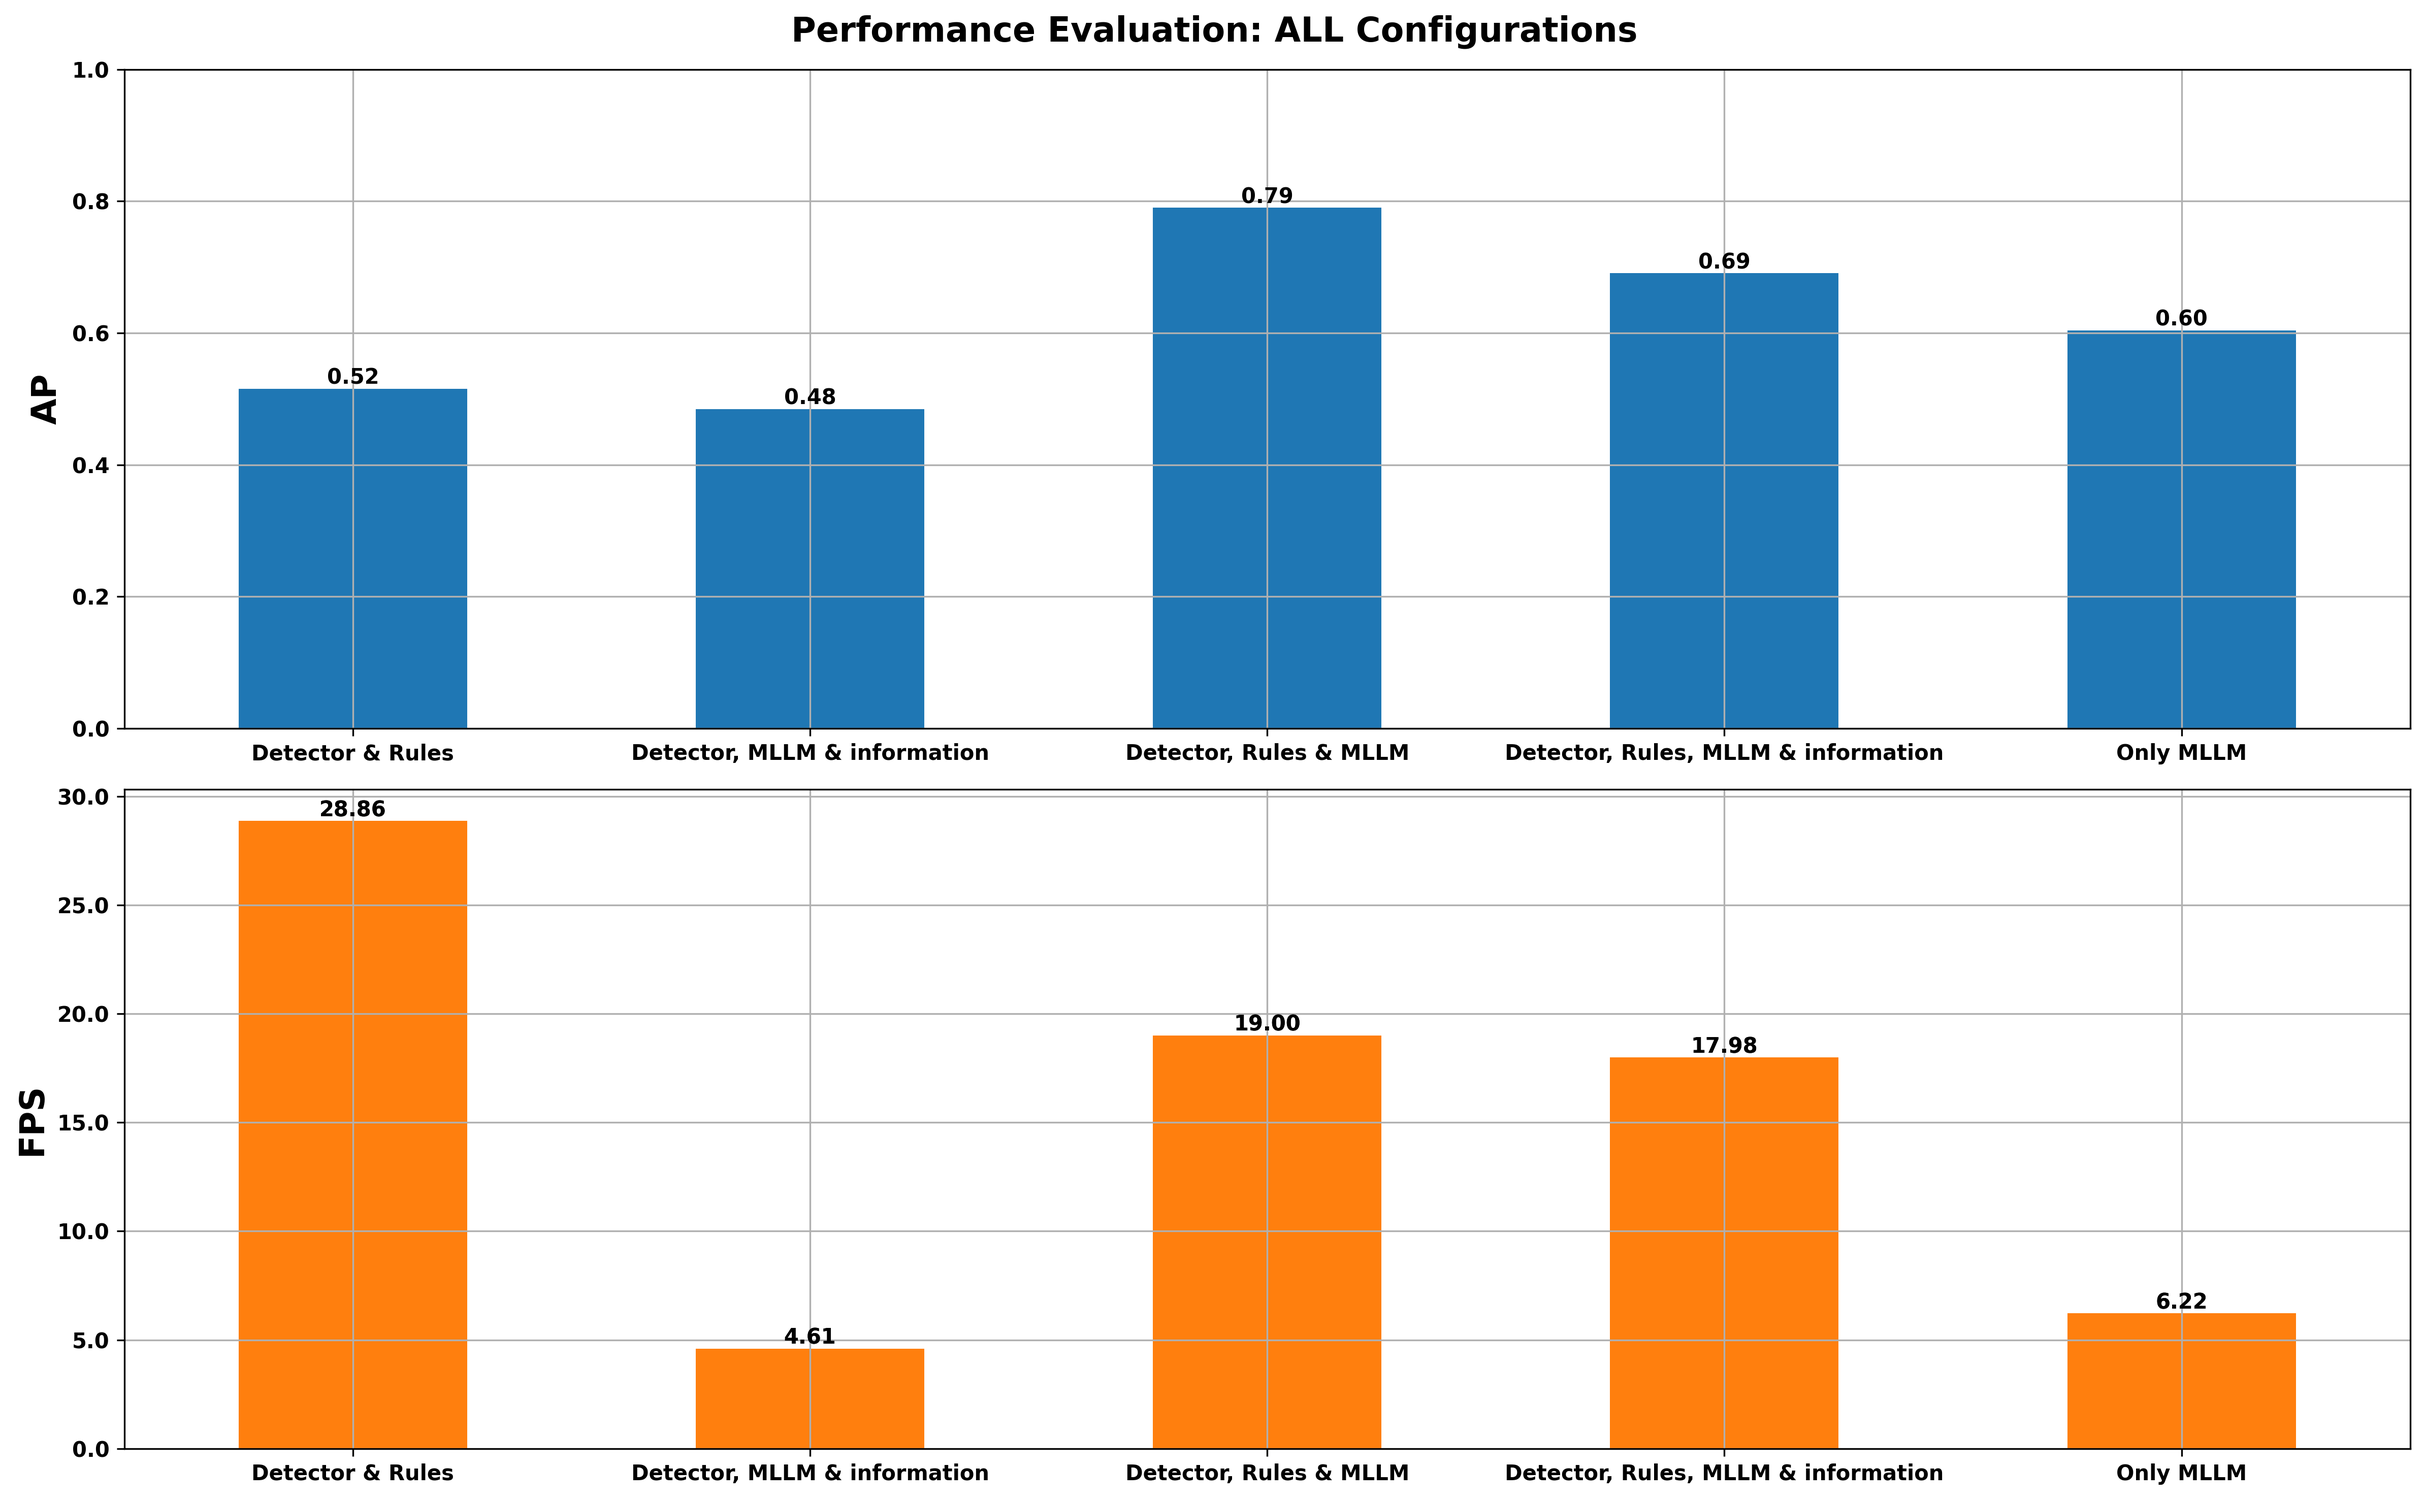
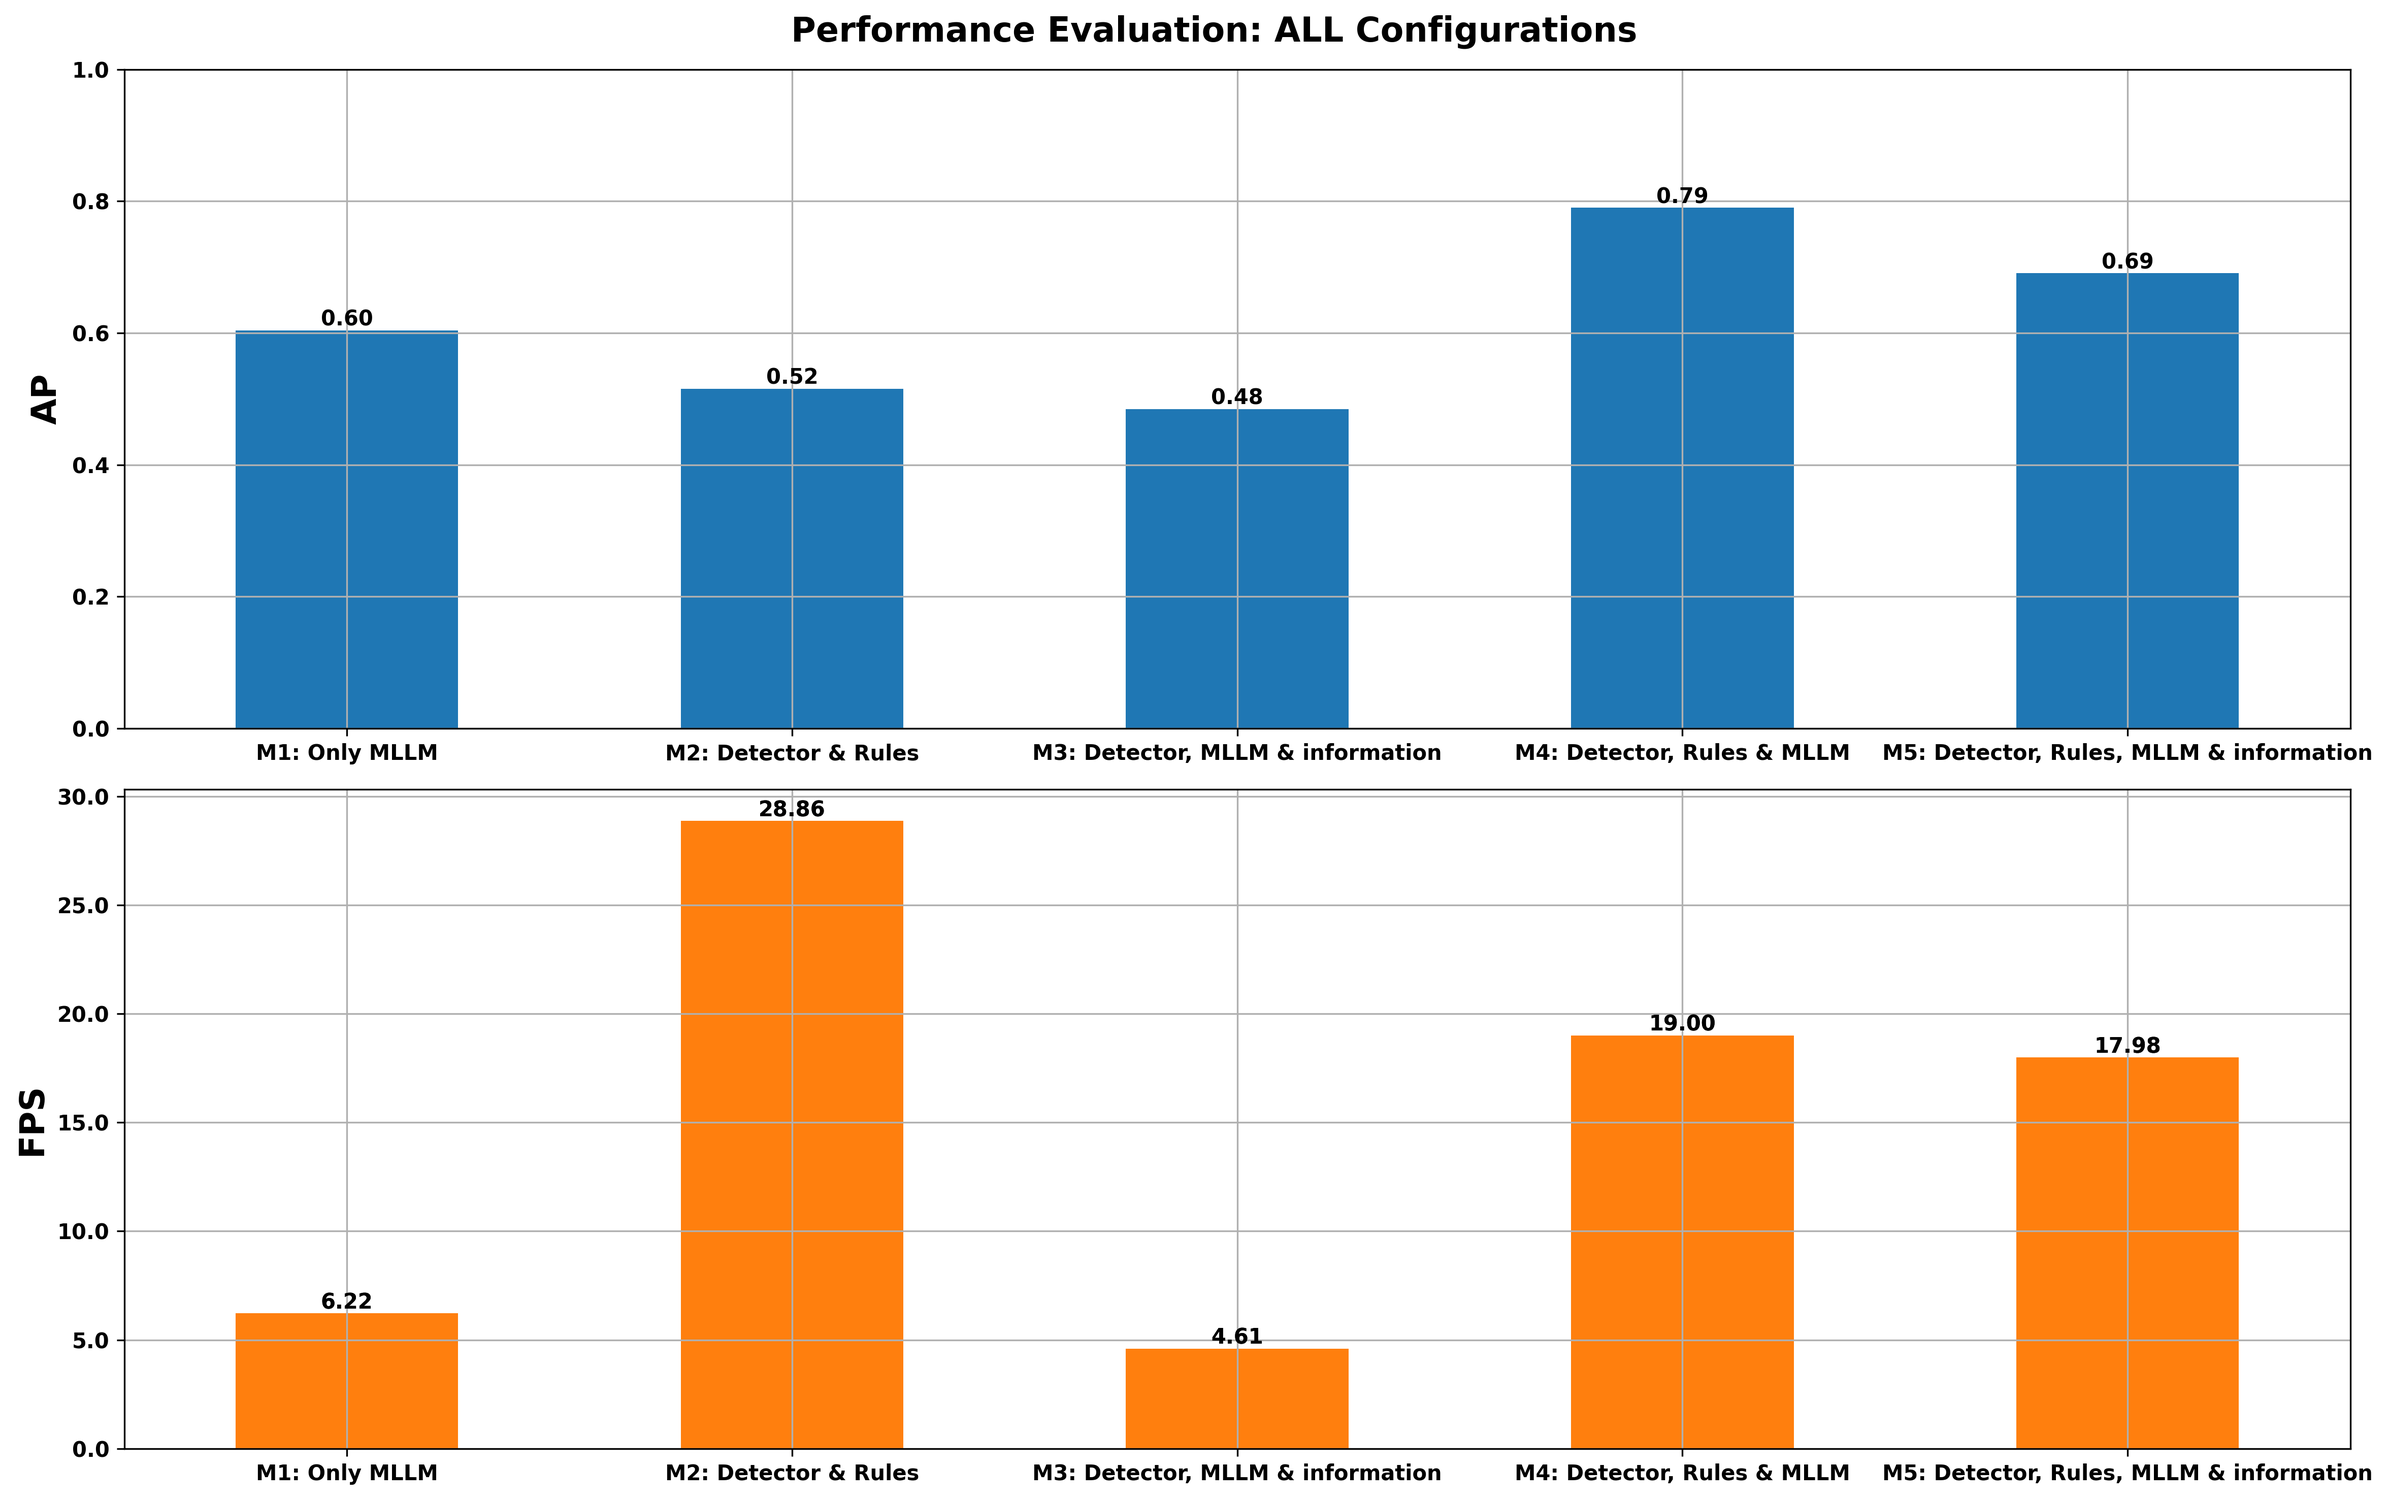
Starting confusion matrix develop for the thesis

diff --git a/Results/Tesis/AnalisemAllVideosJanus3.py b/Results/Tesis/AnalisemAllVideosJanus3.py
@@ -3,22 +3,6 @@ import numpy as np
 import matplotlib.pyplot as plt
 
 
-'''def calculate_ap(precision, recall):
-    # Ordena recall de manera ascendente
-    sorted_indices = np.argsort(recall)
-    precision = np.array(precision)[sorted_indices]
-    recall = np.array(recall)[sorted_indices]
-
-    # Asegúrate de que recall y precision comiencen y terminen en 0 y 1
-    precision = np.concatenate(([0], precision, [0]))
-    recall = np.concatenate(([0], recall, [1]))
-    # Interpola la precisión para eliminar caídas bruscas
-    precision = np.maximum(precision, np.roll(precision, -1))
-    # Encuentra puntos donde el recall cambia y calcula el área bajo la curva
-    indices = np.where(recall[1:] != recall[:-1])[0] + 1
-    ap = np.sum((recall[indices] - recall[indices - 1]) * precision[indices])
-
-    return ap'''
 def calculate_ap(precision, recall):
     # Sort by recall (ascending)
     sorted_indices = np.argsort(recall)
@@ -94,11 +78,11 @@ for i in range(len(categories)):
     mAP_process.append(mean_values)
     # Plot the results
     mode_names = {
-        0: "Detector, Rules, MLLM & information",
-        1: "Only MLLM",
-        2: "Detector, MLLM & information",
-        3: "Detector, Rules & MLLM",
-        4: "Detector & Rules",
+        0: "M5: Detector, Rules, MLLM & information",
+        1: "M1: Only MLLM",
+        2: "M3: Detector, MLLM & information",
+        3: "M4: Detector, Rules & MLLM",
+        4: "M2: Detector & Rules",
     }
     mean_values.rename(index=mode_names, inplace=True)
     mean_values[["AP"]].plot(kind="bar")

diff --git a/Results/Tesis/AnalisemAPAllVideosCLIP3.py b/Results/Tesis/AnalisemAPAllVideosCLIP3.py
@@ -56,6 +56,7 @@ df= pd.concat([df, df2, df3], ignore_index=True)
 df["Process time"] = df["Process time"] / df["Duration"]
 df.loc[df["Name"].str.contains("_1.mp4"), "Process time"] = 30.0 / df["Process time"]
 df.loc[~df["Name"].str.contains("_1.mp4"), "Process time"] = 25.0 / df["Process time"]
+df = df[(df['Mode'] == 1) | (df['Mode'] == 0)]
 def calculate_ap(precision, recall):
     # Sort by recall (ascending)
     sorted_indices = np.argsort(recall)
@@ -111,7 +112,7 @@ for i in range(len(categories)):
     mAP_process.append(mean_values)
     # Plot the results
     mode_names = {
-        0: "CLIP & Rules",1: "CLIP, Rules & and MLLM", 2: "Only CLIP"
+        0: "M6: CLIP & Rules",1: "M7: CLIP, Rules & and MLLM", 2: "Only CLIP"
     }
     mean_values.rename(index=mode_names, inplace=True)
     mean_values[["AP"]].plot(kind="bar")

diff --git a/Results/Tesis/AnalisemAllVideosJanus2.py b/Results/Tesis/AnalisemAllVideosJanus2.py
@@ -54,7 +54,7 @@ df2["Process time"] = df2["Process time"] / df2["Duration"]
 df['Process time'] = 25.0 /df['Process time'] 
 df2['Process time'] = 30.0 /df2['Process time'] 
 df= pd.concat([df, df2], ignore_index=True)
-
+df=df2
 #df = df[(df['Mode'] == 0) | (df['Mode'] == 2)]
 storing_file ="ALLwithRespectedFPS.png"
 
